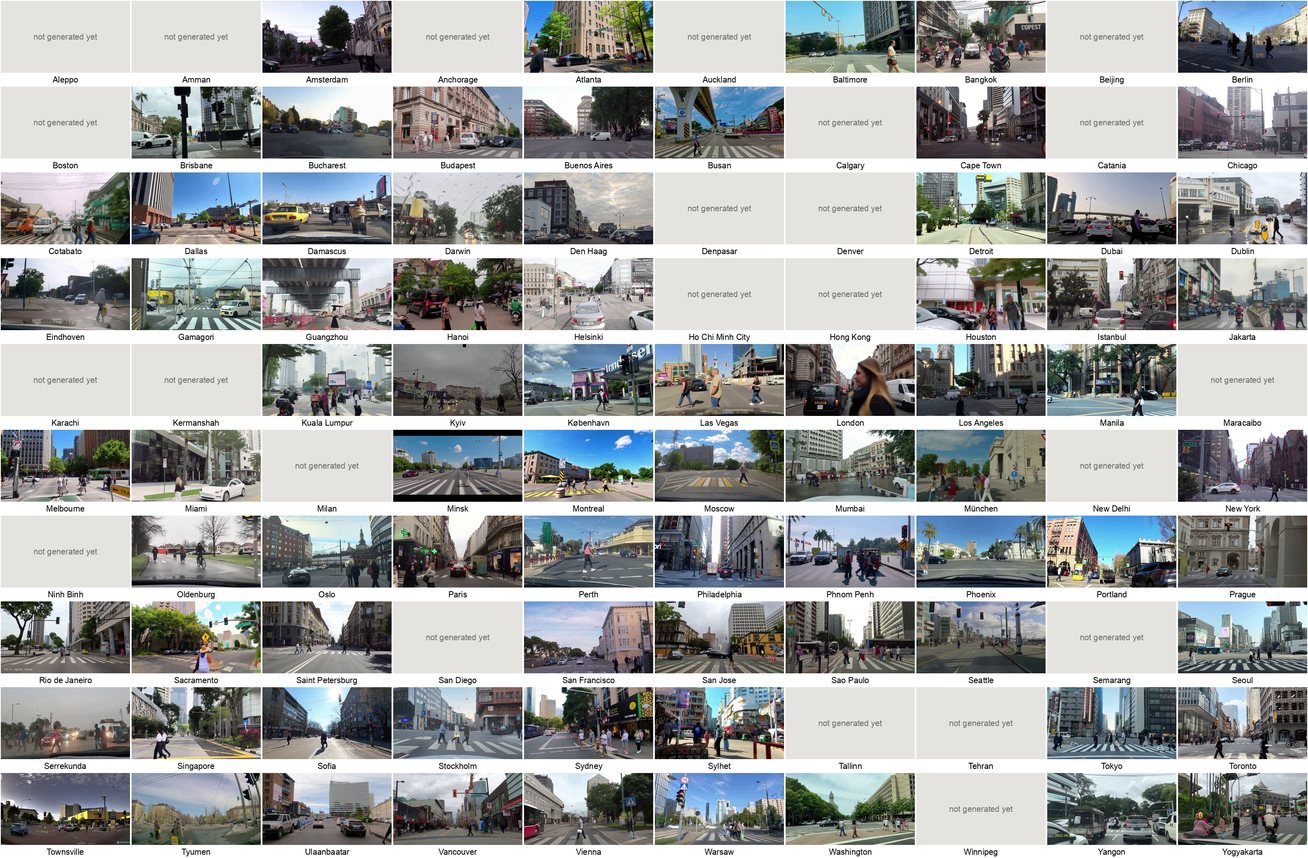
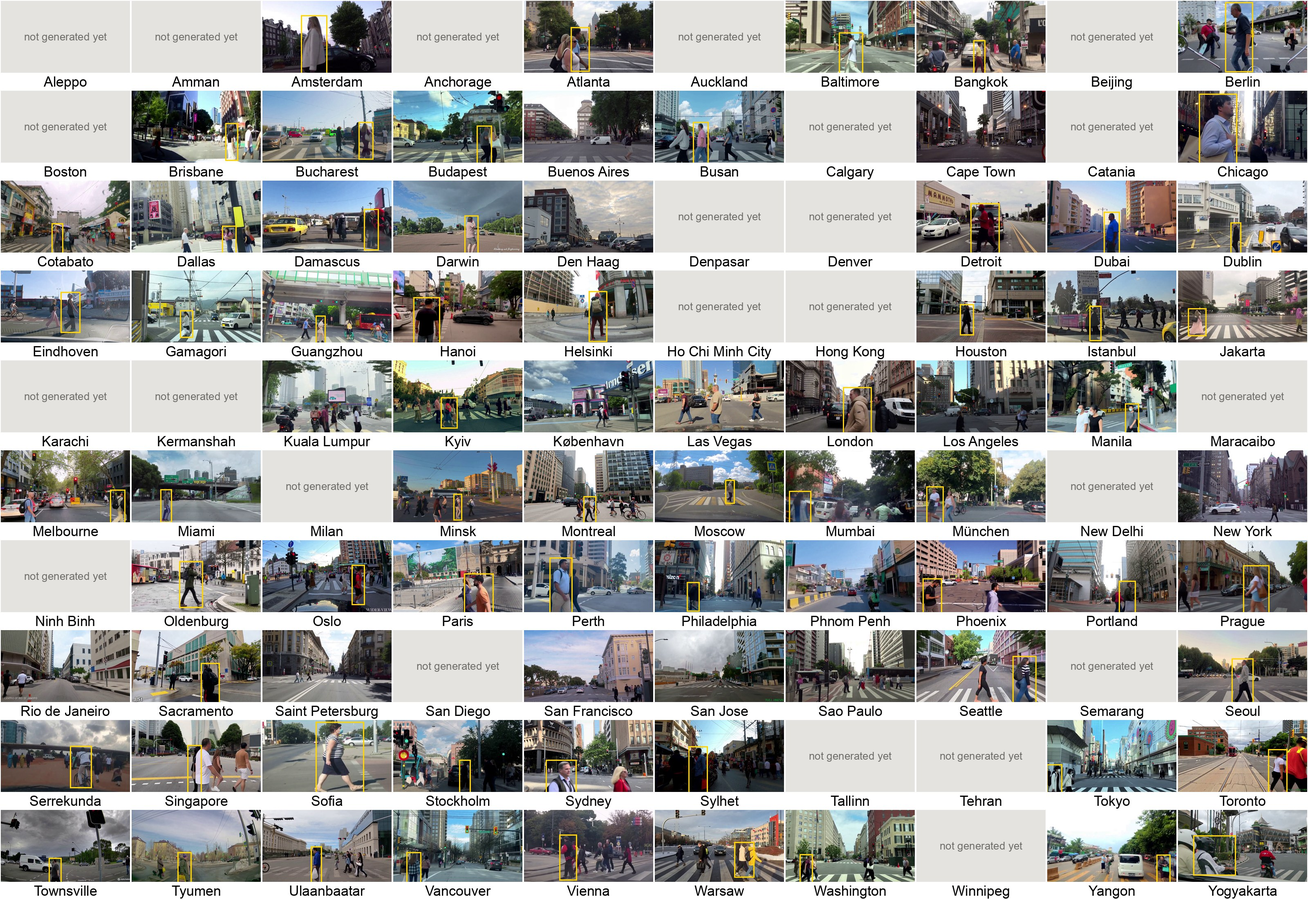
city_frames.py: crop each tile around the crossing pedestrian (tallest crossing per city), larger city names

diff --git a/city_frames.py b/city_frames.py
@@ -1,10 +1,11 @@
 """One frame of a generated clip for each of the 100 cities, as a labelled grid for the paper.
 
-For every city of CROWD's per-city table (plus the generated cities it lacks, such as Seattle), takes the middle frame
-of one MiniMax H3 clip, preferring a clip in which the pipeline counted a crossing (first by name), and tiles the
-frames alphabetically with the city name under each. Cities without a generated clip yet get a grey tile, so the grid
-keeps its 100 places while generation continues. Writes <output>/figures/frames_cities.jpg (and with --pdf-dir a copy
-there for the paper).
+For every city of CROWD's per-city table (plus the generated cities it lacks, such as Seattle), takes the MiniMax H3
+crossing with the tallest pedestrian (from analysis.py's crossings and main.py's tracks), and crops the frame halfway
+through that crossing around the pedestrian, outlined, so that the crossing is visible at thumbnail size. Cities whose
+clips have no counted crossing get the middle frame of their first clip; cities without a generated clip yet get a
+grey tile, so the grid keeps its 100 places while generation continues. Tiles are in alphabetical order with the city
+name under each. Writes <output>/figures/frames_cities.jpg (and with --pdf-dir a copy there for the paper).
 
     uv run python city_frames.py --pdf-dir ../overleaf/vlm-crossing-paper/figures
 """
@@ -24,19 +25,70 @@ from generated_speeds import folder_cities
 MODEL = "minimax_h3"
 COLUMNS = 10
 TILE = (320, 180)  # width, height of each frame
-LABEL = 30  # height of the city name under each frame
-SECOND = 4.0  # frame taken from the middle of the 8-second clip
+LABEL = 40  # height of the city name under each frame
+FONT_SIZE = 34  # largest font of the city names; long names get a smaller one to fit the tile
+SECOND = 4.0  # middle of the 8-second clip, for clips without a counted crossing
+ZOOM = 4.5  # crop height in pedestrian heights...
+MIN_CROP = 0.45  # ...but at least this share of the frame height
+OUTLINE = "#ffd400"
 # TrueType fonts with the letters of all city names (PIL's built-in font lacks e.g. ø and ü); the first found is used.
 FONTS = ("/System/Library/Fonts/Supplemental/Arial.ttf", "/usr/share/fonts/truetype/dejavu/DejaVuSans.ttf",
          "C:/Windows/Fonts/arial.ttf")
 
 
-def frame_at(path: str, second: float) -> np.ndarray:
+def frame_at(path: str, second: float = None, index: int = None) -> np.ndarray:
+    """A frame by time in seconds or by 0-based index."""
     capture = cv2.VideoCapture(path)
-    capture.set(cv2.CAP_PROP_POS_MSEC, second * 1000)
+    if index is None:
+        capture.set(cv2.CAP_PROP_POS_MSEC, second * 1000)
+    else:
+        capture.set(cv2.CAP_PROP_POS_FRAMES, index)
     ok, frame = capture.read()
     capture.release()
     return cv2.cvtColor(frame, cv2.COLOR_BGR2RGB) if ok else None
+
+
+def best_crossings(crossings: str, bbox_dir: str) -> dict:
+    """City -> (video, frame-count, box as x, y, w, h in [0, 1]) of the crossing with the tallest pedestrian, taken
+    halfway through the crossing."""
+    table = pl.read_csv(crossings, infer_schema_length=None, schema_overrides={"video": pl.Utf8})
+    best = {}
+    folders = [f for f in os.listdir(bbox_dir) if os.path.isdir(os.path.join(bbox_dir, f))]
+    for row in table.iter_rows(named=True):
+        paths = [os.path.join(bbox_dir, folder, f) for folder in folders
+                 for f in os.listdir(os.path.join(bbox_dir, folder))
+                 if f.startswith(row["video"] + "_") and f.endswith(".csv")]
+        if not paths:
+            continue
+        track = (pl.read_csv(paths[0]).filter(pl.col("unique-id") == int(row["track_id"]))
+                 .filter(pl.col("frame-count").is_between(row["start_frame"], row["end_frame"])).sort("frame-count"))
+        if track.height == 0:
+            continue
+        middle = track.row(track.height // 2, named=True)
+        size = track["height"].median()
+        if size > best.get(row["city"], (0,))[0]:
+            best[row["city"]] = (size, row["video"], middle["frame-count"],
+                                 (middle["x-center"], middle["y-center"], middle["width"], middle["height"]))
+    return {city: value[1:] for city, value in best.items()}
+
+
+def around(frame: np.ndarray, box: tuple) -> Image.Image:
+    """Crop the frame to the tile's aspect ratio around the pedestrian's box, outline the box, and resize."""
+    image = Image.fromarray(frame)
+    width, height = image.size
+    x, y, w, h = box[0] * width, box[1] * height, box[2] * width, box[3] * height
+    crop_h = min(height, max(ZOOM * h, MIN_CROP * height))
+    crop_w = min(width, crop_h * TILE[0] / TILE[1])
+    crop_h = crop_w * TILE[1] / TILE[0]
+    left = min(max(0, x - crop_w / 2), width - crop_w)
+    top = min(max(0, y - crop_h / 2), height - crop_h)
+    scale = TILE[0] / crop_w
+    tile = image.crop((int(left), int(top), int(left + crop_w), int(top + crop_h))).resize(TILE, Image.LANCZOS)
+    pad = 3
+    ImageDraw.Draw(tile).rectangle(((x - w / 2 - left) * scale - pad, (y - h / 2 - top) * scale - pad,
+                                    (x + w / 2 - left) * scale + pad, (y + h / 2 - top) * scale + pad),
+                                   outline=OUTLINE, width=3)
+    return tile
 
 
 def fit(frame: np.ndarray) -> Image.Image:
@@ -65,33 +117,46 @@ def main() -> None:
              .filter((pl.col("model") == MODEL) & (pl.col("status") == "used") & pl.col("file").is_not_null())
              .with_columns(pl.col("file").map_elements(lambda f: os.path.splitext(os.path.basename(f))[0],
                                                        return_dtype=pl.Utf8).alias("video")))
-    crossed = set()
-    if os.path.isfile(args.crossings):
-        crossed = set(pl.read_csv(args.crossings, columns=["video"], schema_overrides={"video": pl.Utf8})["video"])
-    clips = clips.with_columns(pl.col("video").is_in(list(crossed)).alias("crossed")).sort(
-        "city", pl.col("crossed").not_(), "video")
-    chosen = {c: f for c, f in clips.group_by("city", maintain_order=True).agg(pl.col("file").first()).iter_rows()}
+    files = dict(zip(clips["video"], clips["file"]))
+    chosen = {c: f for c, f in clips.sort("city", "video").group_by("city", maintain_order=True)
+              .agg(pl.col("file").first()).iter_rows()}
+    bbox_dir = os.path.join(os.path.dirname(args.crossings), "bbox")
+    crossing = best_crossings(args.crossings, bbox_dir) if os.path.isdir(bbox_dir) else {}
     cities = sorted(set(pl.read_csv(args.crowd)["locality"]) | set(folder_cities(args.generated).values()))
 
     rows = -(-len(cities) // COLUMNS)
     grid = Image.new("RGB", (COLUMNS * TILE[0], rows * (TILE[1] + LABEL)), "white")
     draw = ImageDraw.Draw(grid)
     path = next((f for f in FONTS if os.path.isfile(f)), None)
-    font = ImageFont.truetype(path, 20) if path else ImageFont.load_default(size=20)
+
+    def font(size: int):
+        return ImageFont.truetype(path, size) if path else ImageFont.load_default(size=size)
     for i, city in enumerate(cities):
         x, y = (i % COLUMNS) * TILE[0], (i // COLUMNS) * (TILE[1] + LABEL)
-        frame = frame_at(os.path.join(common.root_dir, chosen[city]), SECOND) if city in chosen else None
-        if frame is None:
+        tile = None
+        if city in crossing:
+            video, frame_count, box = crossing[city]
+            frame = frame_at(os.path.join(common.root_dir, files[video]), index=frame_count - 1)
+            tile = around(frame, box) if frame is not None else None
+        if tile is None and city in chosen:
+            frame = frame_at(os.path.join(common.root_dir, chosen[city]), SECOND)
+            tile = fit(frame) if frame is not None else None
+        if tile is None:
             draw.rectangle((x + 2, y + 2, x + TILE[0] - 3, y + TILE[1] - 3), fill="#e4e3df")
-            draw.text((x + TILE[0] / 2, y + TILE[1] / 2), "not generated yet", fill="#6f6e69", font=font, anchor="mm")
+            draw.text((x + TILE[0] / 2, y + TILE[1] / 2), "not generated yet", fill="#6f6e69", font=font(26),
+                      anchor="mm")
         else:
-            grid.paste(fit(frame).crop((2, 2, TILE[0] - 2, TILE[1] - 2)), (x + 2, y + 2))
-        draw.text((x + TILE[0] / 2, y + TILE[1] + LABEL / 2), city, fill="black", font=font, anchor="mm")
+            grid.paste(tile.crop((2, 2, TILE[0] - 2, TILE[1] - 2)), (x + 2, y + 2))
+        size = FONT_SIZE
+        while size > 12 and draw.textlength(city, font=font(size)) > TILE[0] - 8:
+            size -= 1
+        draw.text((x + TILE[0] / 2, y + TILE[1] + LABEL / 2), city, fill="black", font=font(size), anchor="mm")
 
     target = os.path.join(common.get_output_dir(), "figures", "frames_cities.jpg")
     os.makedirs(os.path.dirname(target), exist_ok=True)
     grid.save(target, quality=88)
-    common.logger.info(f"{len(chosen)} of {len(cities)} cities have a generated frame; wrote {target}.")
+    common.logger.info(f"{len(chosen)} of {len(cities)} cities have a generated frame, {len(crossing)} of them "
+                       f"centred on a crossing; wrote {target}.")
     if args.pdf_dir:
         shutil.copy(target, os.path.join(args.pdf_dir, "frames_cities.jpg"))
 

diff --git a/README.md b/README.md
@@ -174,7 +174,7 @@ The paper asks whether video generators reproduce the crossing behaviour of a ci
 
 All 30 Veo cities also have MiniMax videos. CROWD's reference values come from crowd-city's run over the 100 cities with the most footage (cars only, footage in a fixed random order until 100 crossings or 100 hours per city); Seattle has no crossing in it.
 
-**One frame per city** (`city_frames.py`: the middle of one MiniMax H3 clip; grey tiles are cities without generated clips yet):
+**One frame per city** (`city_frames.py`: in one MiniMax H3 clip, the frame halfway through the crossing with the largest pedestrian, cropped around the pedestrian; grey tiles are cities without generated clips yet):
 
 [![One frame per city](readme/frames_cities.jpg)](readme/frames_cities.jpg)
 
